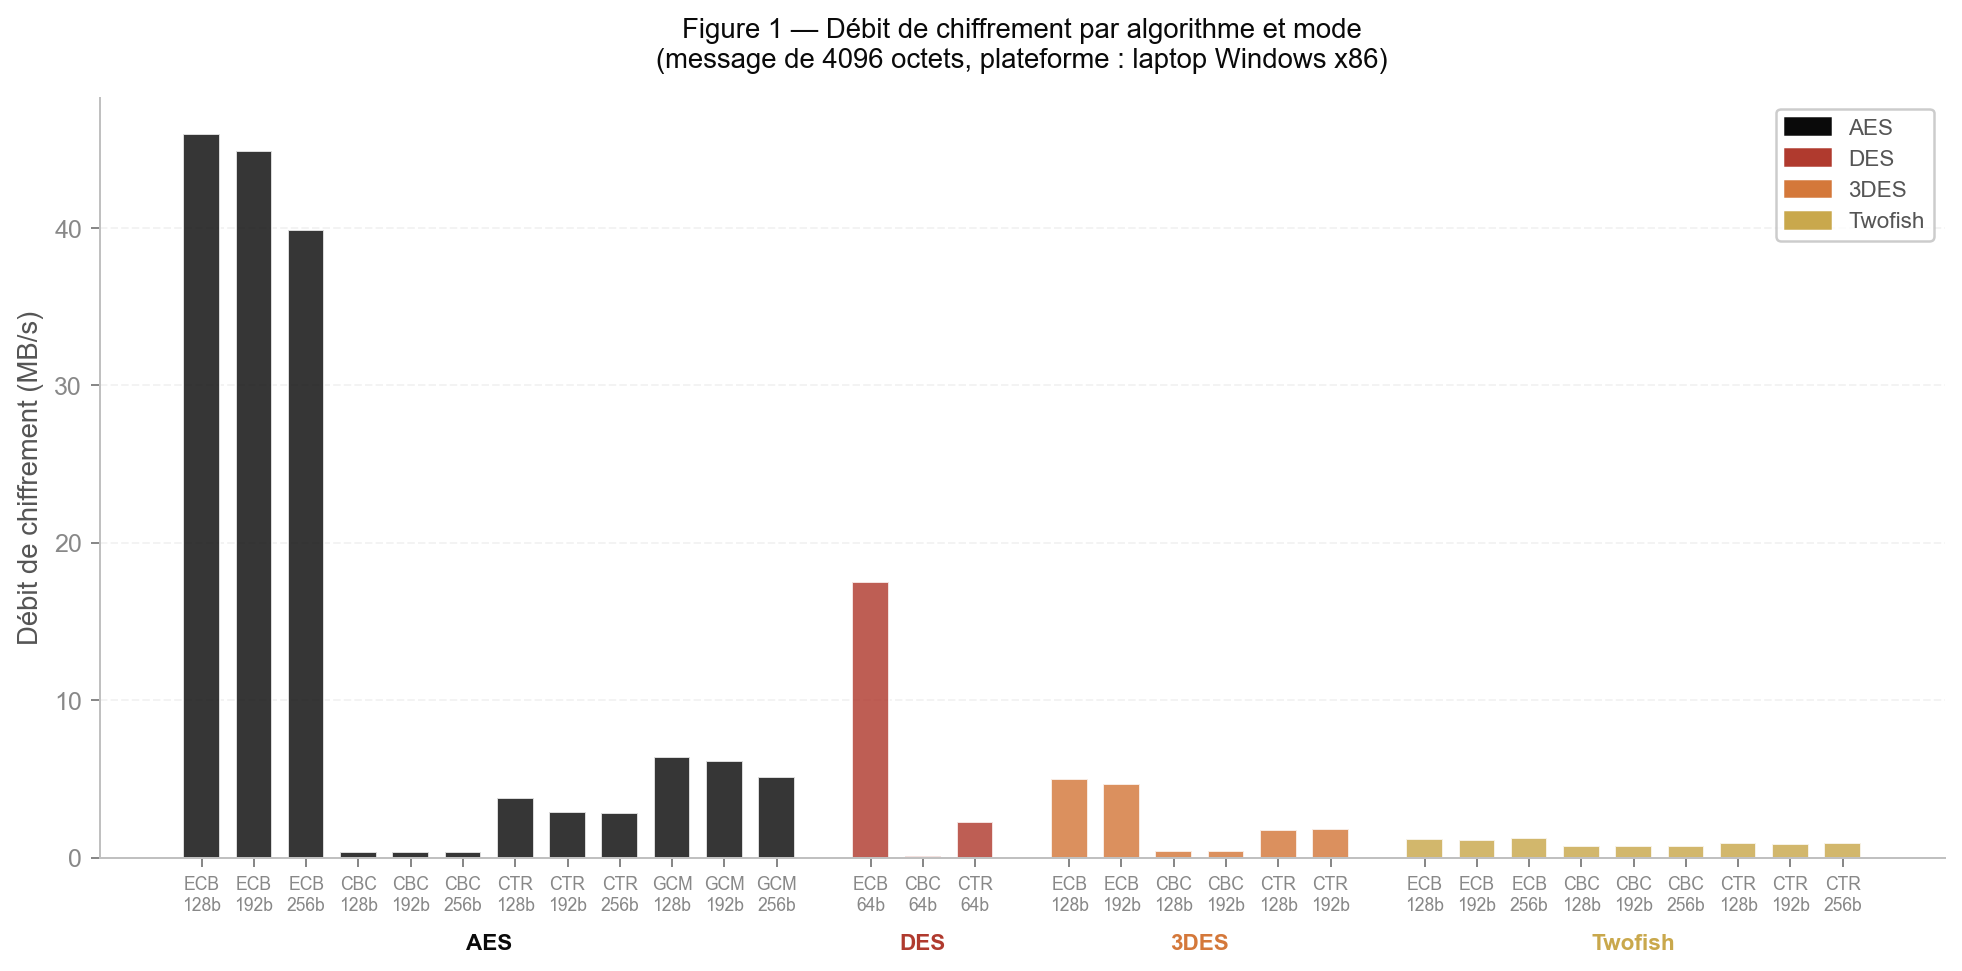
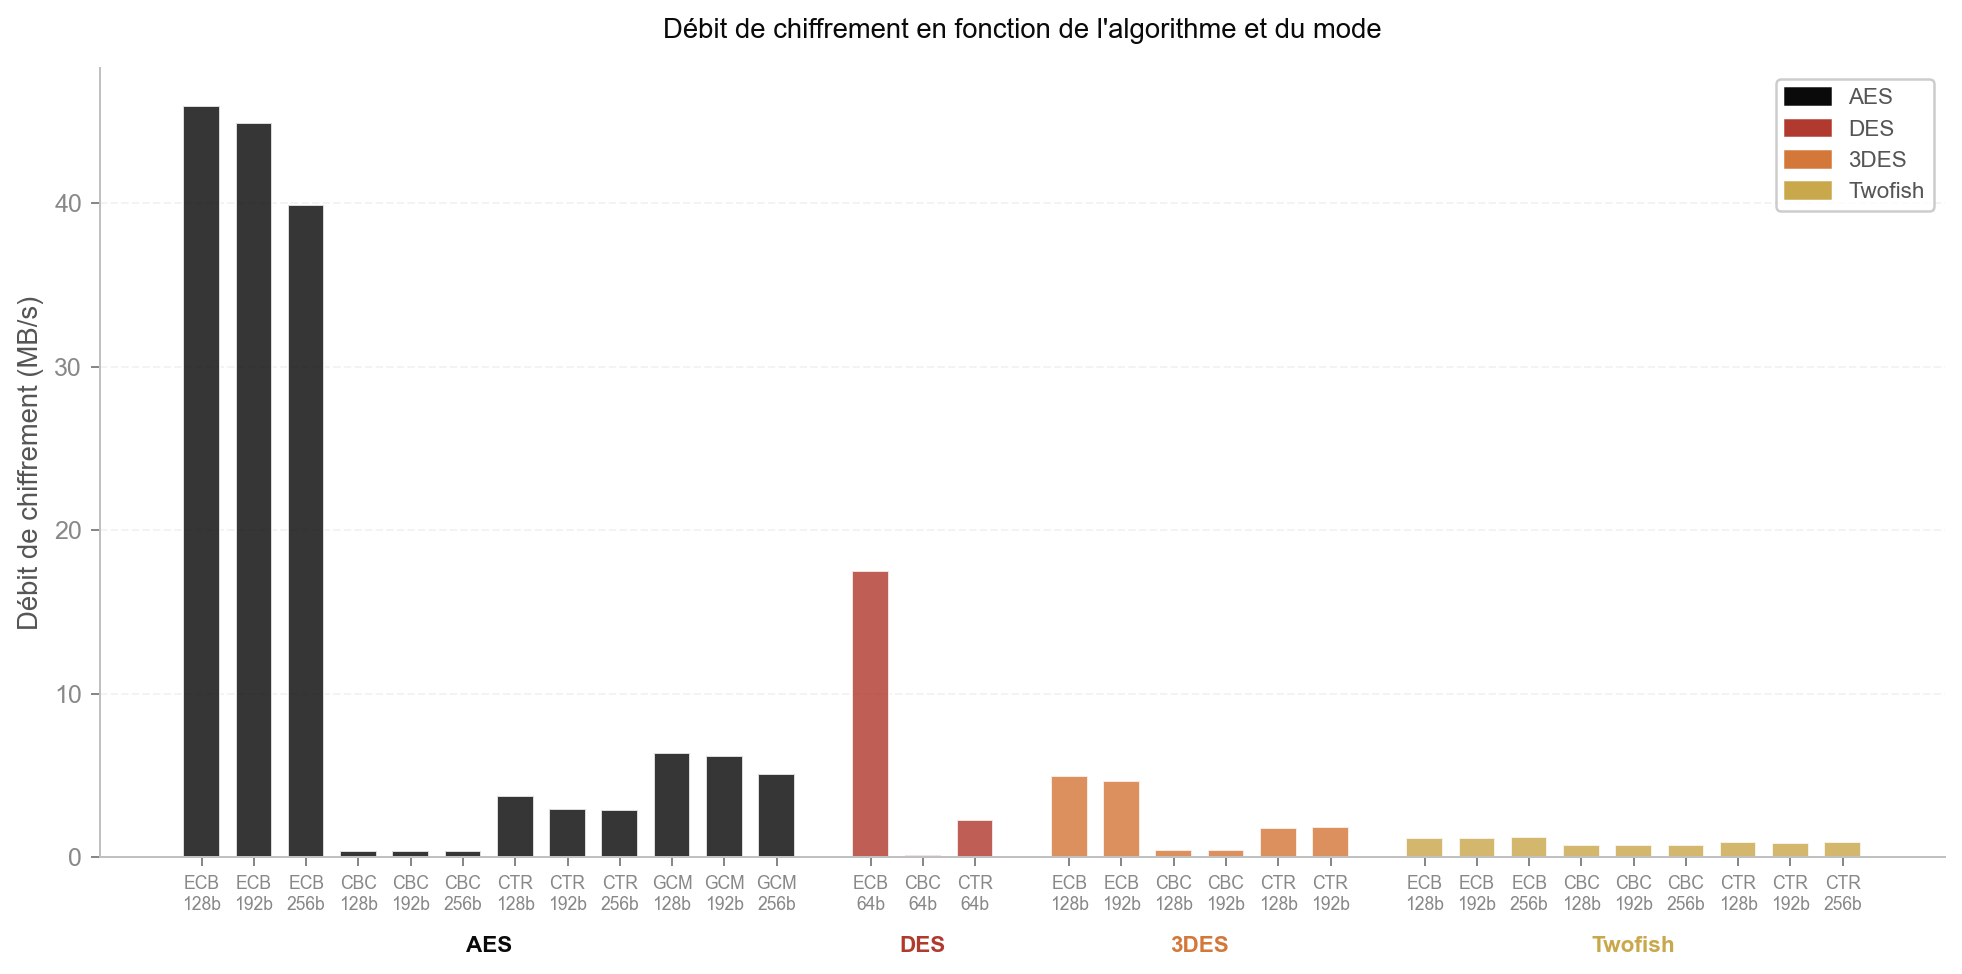
commit

diff --git a/crypto-experiments/scripts/generate_charts.py b/crypto-experiments/scripts/generate_charts.py
@@ -178,8 +178,7 @@ def fig1_throughput_4096():
     ax.set_xticklabels(tick_labels, fontsize=7)
     ax.set_ylabel("Débit de chiffrement (MB/s)", fontsize=11)
     ax.set_title(
-        "Figure 1 — Débit de chiffrement par algorithme et mode\n"
-        f"(message de {target_size} octets, plateforme : laptop Windows x86)",
+        "Débit de chiffrement en fonction de l'algorithme et du mode",
         fontsize=11,
     )
 
@@ -231,8 +230,7 @@ def fig2_throughput_vs_size():
     ax.set_xlabel("Taille du message (octets)", fontsize=11)
     ax.set_ylabel("Débit de chiffrement (MB/s)", fontsize=11)
     ax.set_title(
-        "Figure 2 — Débit de chiffrement selon la taille du message (mode ECB)\n"
-        "(plateforme : laptop Windows x86)",
+        "Débit de chiffrement en fonction de la taille du message",
         fontsize=11,
     )
     ax.legend(fontsize=9)
@@ -270,8 +268,7 @@ def fig3_aes_mode_comparison():
     ax.set_xlabel("Taille du message (octets)", fontsize=11)
     ax.set_ylabel("Débit de chiffrement (MB/s)", fontsize=11)
     ax.set_title(
-        "Figure 3 — Comparaison des modes d'opération (AES-128)\n"
-        "(plateforme : laptop Windows x86)",
+        "Débit AES-128 en fonction du mode d'opération",
         fontsize=11,
     )
     ax.legend(title="Mode", fontsize=9)
@@ -306,8 +303,7 @@ def fig4_avalanche():
     ax.set_ylim(0.45, 0.565)
     ax.set_ylabel("Score d'effet d'avalanche (proportion de bits modifiés)", fontsize=10)
     ax.set_title(
-        "Figure 4 — Effet d'avalanche par algorithme\n"
-        "(moyenne ± écart-type, tous modes et tailles confondus)",
+        "Score d'avalanche en fonction de l'algorithme",
         fontsize=11,
     )
     ax.legend(fontsize=9)
@@ -354,8 +350,7 @@ def fig4b_key_avalanche():
     ax.set_ylim(0.40, 0.65)
     ax.set_ylabel("Score d'avalanche", fontsize=11)
     ax.set_title(
-        "Figure 4b — Comparaison de l'effet d'avalanche : flip texte clair vs flip clé\n"
-        "(tous modes et tailles confondus)",
+        "Score d'avalanche en fonction du type de perturbation",
         fontsize=11,
     )
     ax.legend(fontsize=9)
@@ -400,8 +395,7 @@ def fig5_enc_vs_dec():
     ax.set_xticklabels(labels, fontsize=8)
     ax.set_ylabel("Débit (MB/s)", fontsize=11)
     ax.set_title(
-        f"Figure 5 — Débit de chiffrement vs déchiffrement (mode ECB, {target_size} octets)\n"
-        "(plateforme : laptop Windows x86)",
+        "Débit de chiffrement en fonction de l'opération (ECB)",
         fontsize=11,
     )
     ax.legend(fontsize=9)
@@ -439,8 +433,7 @@ def fig6_key_size_impact():
     ax.set_xlabel("Taille de clé AES", fontsize=11)
     ax.set_ylabel("Débit de chiffrement (MB/s)", fontsize=11)
     ax.set_title(
-        "Figure 6 — Impact de la taille de clé sur le débit AES\n"
-        "(message de 4 096 octets, plateforme : laptop Windows x86)",
+        "Débit AES en fonction de la taille de clé",
         fontsize=11,
     )
     ax.legend(title="Mode", fontsize=9)
@@ -483,7 +476,7 @@ def algo_profile(algo_name):
         ax1.set_xticklabels([f"{s:,}" for s in msg_sizes])
         ax1.set_xlabel("Taille du message (octets)", fontsize=10)
         ax1.set_ylabel("Débit (MB/s)", fontsize=10)
-        ax1.set_title(f"Profil {algo_name} — Débit chiffrement vs déchiffrement par taille de message",
+        ax1.set_title(f"Profil {algo_name} — Débit en fonction de la taille du message",
                       fontsize=11, fontweight="bold")
         ax1.legend(fontsize=9)
         _style_ax(ax1)
@@ -498,7 +491,7 @@ def algo_profile(algo_name):
         ax2.set_xlabel("Taille du message (octets)", fontsize=10)
         ax2.set_ylabel("Score d'avalanche", fontsize=10)
         ax2.set_ylim(0.45, 0.65)
-        ax2.set_title("Score d'effet d'avalanche par taille de message", fontsize=10)
+        ax2.set_title(f"Profil {algo_name} — Avalanche en fonction de la taille du message", fontsize=10)
         _style_ax(ax2)
 
         plt.tight_layout()
@@ -541,7 +534,7 @@ def algo_profile(algo_name):
     ax1.set_xticks(x)
     ax1.set_xticklabels([f"{k} bits" for k in key_bits_list])
     ax1.set_ylabel("Débit de chiffrement (MB/s)", fontsize=10)
-    ax1.set_title(f"Profil {algo_name} — Débit par mode et taille de clé (4 096 octets)",
+    ax1.set_title(f"Profil {algo_name} — Débit en fonction du mode et de la taille de clé",
                   fontsize=11, fontweight="bold")
     ax1.legend(title="Mode", fontsize=8, ncol=4)
     _style_ax(ax1)
@@ -562,7 +555,7 @@ def algo_profile(algo_name):
     ax2.set_xlabel("Taille de clé", fontsize=10)
     ax2.set_ylabel("Score d'avalanche", fontsize=10)
     ax2.set_ylim(0.45, 0.55)
-    ax2.set_title("Score d'effet d'avalanche par mode et taille de clé", fontsize=10)
+    ax2.set_title(f"Profil {algo_name} — Avalanche en fonction du mode et de la taille de clé", fontsize=10)
     _style_ax(ax2)
 
     plt.tight_layout()
@@ -598,8 +591,7 @@ def fig7_ecb_vs_gcm():
     ax.set_xlabel("Taille du message (octets)", fontsize=11)
     ax.set_ylabel("Débit de chiffrement (MB/s)", fontsize=11)
     ax.set_title(
-        "Figure 7 — AES-128 : Compromis sécurité / performance selon le mode\n"
-        "(ECB rapide mais cryptographiquement cassé — GCM est le choix correct)",
+        "Débit AES-128 en fonction du mode (sécurité et performance)",
         fontsize=11,
     )
     ax.legend(fontsize=9)
@@ -658,8 +650,7 @@ def fig9_synthesis_heatmap():
     cbar.ax.tick_params(colors=TEXT_COLOR, labelsize=8)
     cbar.ax.yaxis.label.set_color(TEXT_COLOR)
     ax.set_title(
-        "Figure 8 — Heatmap synthèse : score normalisé par métrique (1 = meilleur)\n"
-        f"(ECB/Stream · {target} octets · plateforme : laptop Windows x86)",
+        "Score global en fonction de l'algorithme et de la métrique",
         fontsize=11, color=TEXT_COLOR,
     )
     plt.tight_layout()

diff --git a/crypto-experiments/scripts/compare_platforms.py b/crypto-experiments/scripts/compare_platforms.py
@@ -207,8 +207,7 @@ def cmp1_throughput_all():
     ax.set_xticklabels(algo_order, fontsize=11)
     ax.set_ylabel("Débit de chiffrement (MB/s)", fontsize=11)
     ax.set_title(
-        "Comparaison 1 — Débit de chiffrement : Laptop x86 vs Raspberry Pi\n"
-        f"(ECB sauf ChaCha20 · {target_size} octets · meilleure clé par algorithme)",
+        "Débit de chiffrement en fonction de l'algorithme (x86 et ARM)",
         fontsize=11,
     )
     ax.legend(fontsize=9)
@@ -257,8 +256,7 @@ def cmp2_speedup_ratio():
 
     ax.set_ylabel("Rapport de débit x86 / Pi (×)", fontsize=11)
     ax.set_title(
-        "Comparaison 2 — Rapport de performance x86 vs Raspberry Pi\n"
-        "(ECB sauf ChaCha20 · 4 096 octets · valeur > 1 = x86 plus rapide)",
+        "Ratio de performance en fonction de l'algorithme (x86/ARM)",
         fontsize=11,
     )
     ax.legend(fontsize=9)
@@ -315,8 +313,7 @@ def cmp3_throughput_vs_size():
     ax.set_xlabel("Taille du message (octets)", fontsize=11)
     ax.set_ylabel("Débit de chiffrement (MB/s)", fontsize=11)
     ax.set_title(
-        "Comparaison 3 — Débit selon la taille du message (mode ECB)\n"
-        "Trait plein = x86  ·  Trait pointillé = Raspberry Pi",
+        "Débit en fonction de la taille du message (x86 et ARM)",
         fontsize=11,
     )
     ax.legend(fontsize=7, ncol=2)
@@ -361,8 +358,7 @@ def cmp4_avalanche():
     ax.set_ylim(0.42, 0.64)
     ax.set_ylabel("Score d'avalanche", fontsize=11)
     ax.set_title(
-        "Comparaison 4 — Effet d'avalanche : x86 vs Raspberry Pi\n"
-        "(propriété mathématique — les scores doivent être indépendants de la plateforme)",
+        "Score d'avalanche en fonction de l'algorithme (x86 et ARM)",
         fontsize=11,
     )
     ax.legend(fontsize=9)
@@ -411,8 +407,7 @@ def cmp5_chacha20():
     ax.set_xlabel("Taille du message (octets)", fontsize=11)
     ax.set_ylabel("Débit de chiffrement (MB/s)", fontsize=11)
     ax.set_title(
-        "Comparaison 5 — ChaCha20 : Laptop x86 vs Raspberry Pi\n"
-        "(aucune accélération matérielle sur les deux plateformes — ARX logiciel pur)",
+        "Débit de ChaCha20 en fonction de la taille du message (x86 et ARM)",
         fontsize=11,
     )
     ax.legend(fontsize=9)
@@ -471,8 +466,7 @@ def cmp6_ci95_stability():
     ax.set_xticklabels(algo_order, fontsize=11)
     ax.set_ylabel("IC à 95 % du débit de chiffrement (MB/s)", fontsize=11)
     ax.set_title(
-        "Comparaison 6 — Stabilité des mesures : IC95 · Laptop x86 vs Raspberry Pi\n"
-        "(ECB · 4 096 octets · meilleure clé  |  valeur faible = mesures stables)",
+        "Stabilité des mesures en fonction de la plateforme (IC95)",
         fontsize=11,
     )
     ax.legend(fontsize=9)
@@ -544,8 +538,7 @@ def cmp7_radar():
         ax.fill(angles, vals, alpha=0.08, color=color)
 
     ax.set_title(
-        "Comparaison 7 — Synthèse multi-critères (scores normalisés)\n"
-        "Débit · Portabilité · Qualité d'avalanche",
+        "Score global en fonction de l'algorithme (synthèse normalisée)",
         fontsize=11, color=TEXT_COLOR, pad=25,
     )
     ax.legend(loc="upper right", bbox_to_anchor=(1.35, 1.15), fontsize=9)
@@ -593,8 +586,7 @@ def cmp8_scalability_all_algos():
     ax.set_xlabel("Taille du message (octets)", fontsize=11)
     ax.set_ylabel("Débit de chiffrement (MB/s)", fontsize=11)
     ax.set_title(
-        "Scalabilité — Débit vs taille de message : x86 (—) vs Pi (- -)\n"
-        "(mode ECB/Stream, meilleure clé par algorithme)",
+        "Débit en fonction de la taille du message (tous algorithmes)",
         fontsize=11,
     )
     ax.legend(fontsize=7, ncol=5)

diff --git a/crypto-experiments/scripts/ecb_visual_vulnerability.py b/crypto-experiments/scripts/ecb_visual_vulnerability.py
@@ -202,27 +202,26 @@ if __name__ == "__main__":
         ax.set_facecolor(PANEL)
 
     axes[0].imshow(orig_arr, cmap="gray", vmin=0, vmax=255)
-    axes[0].set_title("(a) Image originale\n(régions uniformes visibles)",
+    axes[0].set_title("Image originale",
                       fontsize=10, color=TEXT, pad=8)
     axes[0].axis("off")
 
     axes[1].imshow(ecb_arr, cmap="gray", vmin=0, vmax=255)
     axes[1].set_title(
-        "(b) Chiffré AES-ECB\n⚠ Les patterns restent visibles !",
+        "Image chiffrée en mode ECB",
         fontsize=10, color=RED, pad=8
     )
     axes[1].axis("off")
 
     axes[2].imshow(cbc_arr, cmap="gray", vmin=0, vmax=255)
     axes[2].set_title(
-        "(c) Chiffré AES-CBC\n✓ Aucun motif structurel visible",
+        "Image chiffrée en mode CBC",
         fontsize=10, color=GREEN, pad=8
     )
     axes[2].axis("off")
 
     fig.suptitle(
-        "Figure 9 — Vulnérabilité du mode ECB\n"
-        "Les patterns de l'original sont préservés dans ECB — masqués dans CBC",
+        "Visibilité des motifs en fonction du mode de chiffrement",
         fontsize=11, color=TEXT, y=1.02
     )
     plt.tight_layout()

diff --git a/crypto-experiments/scripts/analyse_rounds_avalanche.py b/crypto-experiments/scripts/analyse_rounds_avalanche.py
@@ -307,8 +307,7 @@ if __name__ == "__main__":
     ax.set_xlabel("Nombre de tours (rounds)", fontsize=11)
     ax.set_ylabel("Score d'effet d'avalanche", fontsize=11)
     ax.set_title(
-        "Figure 4c — Convergence de l'effet d'avalanche selon le nombre de tours DES\n"
-        f"({TRIALS} essais par configuration, flip d'un bit en entrée)",
+        "Score d'avalanche en fonction du nombre de tours DES",
         fontsize=11,
     )
     ax.set_xticks(rounds_list)
